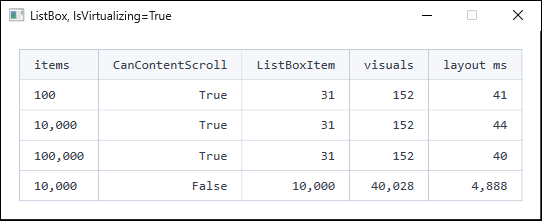
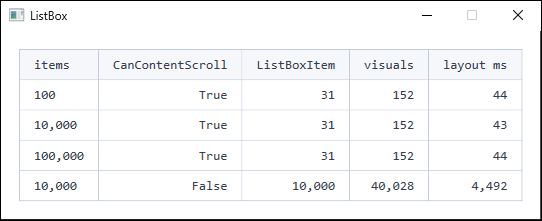
仮想化コストの図のタイトルを実態に合わせる
タイトルが `ListBox, IsVirtualizing=True` だったが、この表には
`CanContentScroll="False"` の行を含む。`IsVirtualizing` を `True` に
設定していても、`CanContentScroll` が `False` だと仮想化は働かない
（実体化されるコンテナが 31 個から 10,000 個へ増えることが表自体に出ている）。

すべての行が仮想化されているかのようなタイトルになっていたため、
`ListBox` のみとした。条件は表の列がすべて示している。

diff --git a/tools/screenshot-capture/Scenes/ListBoxSelectionSyncScene.cs b/tools/screenshot-capture/Scenes/ListBoxSelectionSyncScene.cs
@@ -229,7 +229,7 @@ internal sealed class ListBoxSelectionSyncScene : IScene
         }
 
         return DemoLayout.BuildTableWindow(
-            "ListBox, IsVirtualizing=True",
+            "ListBox",
             ["items", "CanContentScroll", "ListBoxItem", "visuals", "layout ms"],
             rows);
     }
